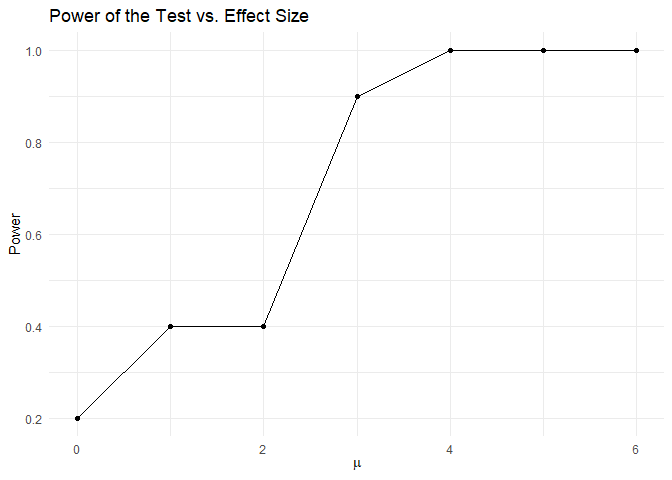
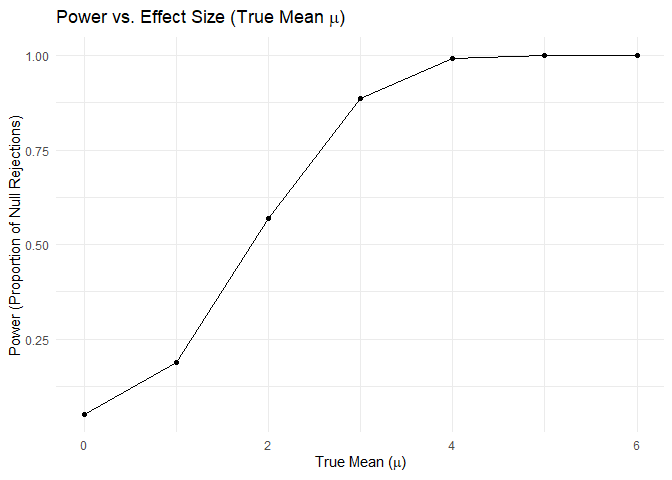
commit q1

diff --git a/p8105_hw5_fl2714.md b/p8105_hw5_fl2714.md
@@ -43,31 +43,94 @@ set.seed(1)
 n <- 30       
 sigma <- 5    
 alpha <- 0.05 
-mu_value <- 0  
+mu_values <- c(0, 1, 2, 3, 4, 5, 6)  
 num_simulations <- 5000
 
+# Function to generate dataset, perform t-test, and extract results using broom::tidy
 sim_mean_sd <- function(n, mu = 0, sigma = 5) {
   x <- rnorm(n, mean = mu, sd = sigma)
-  tibble(
-    mu_hat = mean(x),
-    sigma_hat = sd(x)
-  )
+  t_test <- t.test(x, mu = 0)
+  tidy(t_test) %>%
+    mutate(mu_hat = mean(x))
 }
 
-sim_results <- map_df(1:num_simulations, ~ sim_mean_sd(n, mu = mu_value, sigma = sigma))
+# Run simulations for each mu value
+sim_results <- map_df(mu_values, function(mu_value) {
+  map_df(1:num_simulations, ~ sim_mean_sd(n, mu = mu_value, sigma = sigma)) %>%
+    mutate(mu = mu_value)
+})
 
-head(sim_results)
+# Calculate power for each mu value (proportion of tests where null was rejected)
+power_results <- sim_results %>%
+  group_by(mu) %>%
+  summarise(power = mean(p.value < alpha))
 ```
 
-    ## # A tibble: 6 × 2
-    ##   mu_hat sigma_hat
-    ##    <dbl>     <dbl>
-    ## 1  0.412      4.62
-    ## 2  0.664      3.98
-    ## 3  0.551      4.80
-    ## 4  0.567      4.41
-    ## 5 -1.65       4.61
-    ## 6  1.19       5.28
+``` r
+# Plot 1 with expression for mu symbol
+ggplot(power_results, aes(x = mu, y = power)) +
+  geom_line() +
+  geom_point() +
+  labs(
+    title = expression("Power vs. Effect Size (True Mean " * mu * ")"),
+    x = expression("True Mean (" * mu * ")"),
+    y = "Power (Proportion of Null Rejections)"
+  ) +
+  theme_minimal()
+```
+
+![](p8105_hw5_fl2714_files/figure-gfm/unnamed-chunk-3-1.png)<!-- -->
+
+``` r
+# Calculate the average of mu_hat for each mu value
+avg_mu_hat <- sim_results %>%
+  group_by(mu) %>%
+  summarise(avg_mu_hat = mean(mu_hat))
+
+# Plot 2: Average Estimate of mu_hat vs. True Mean (µ) with expression
+ggplot(avg_mu_hat, aes(x = mu, y = avg_mu_hat)) +
+  geom_line() +
+  geom_point() +
+  labs(
+    title = expression("Average Estimate of " * hat(mu) * " vs. True Mean " * mu),
+    x = expression("True Mean (" * mu * ")"),
+    y = expression("Average Estimate of " * hat(mu))
+  ) +
+  theme_minimal()
+```
+
+![](p8105_hw5_fl2714_files/figure-gfm/unnamed-chunk-4-1.png)<!-- -->
+
+``` r
+# Calculate the average of mu_hat only for tests where null was rejected
+avg_mu_hat_rejected <- sim_results %>%
+  filter(p.value < alpha) %>%
+  group_by(mu) %>%
+  summarise(avg_mu_hat_rejected = mean(mu_hat))
+
+# Average Estimate of µ̂ for Rejected Tests vs. True Mean (µ)
+ggplot(avg_mu_hat, aes(x = mu, y = avg_mu_hat)) +
+  geom_line(color = "blue", linetype = "dashed") +
+  geom_point(color = "blue") +
+  geom_line(data = avg_mu_hat_rejected, aes(x = mu, y = avg_mu_hat_rejected), color = "red") +
+  geom_point(data = avg_mu_hat_rejected, aes(x = mu, y = avg_mu_hat_rejected), color = "red") +
+  labs(title = "Average Estimate of µ̂ vs. True Mean µ (Overall and Rejected Tests)",
+       x = expression("True Mean (" * mu * ")"),
+       y = "Average Estimate of µ̂") +
+  theme_minimal() +
+  scale_color_manual(values = c("Overall" = "blue", "Rejected" = "red"))
+```
+
+    ## Warning: No shared levels found between `names(values)` of the manual scale and the
+    ## data's colour values.
+
+![](p8105_hw5_fl2714_files/figure-gfm/unnamed-chunk-5-1.png)<!-- -->
+
+the sample average of miu across tests where the null is rejected is not
+approximately equal to the true miu due to selection bias. By
+conditioning on rejection of the null, we are choosing samples where the
+observed effect is more extreme, leading to an overestimation of the
+true mean miu in the subset of rejected tests.
 
 ### Question 3
 
@@ -90,6 +153,11 @@ city_summary <- homicide_data %>%
   ) %>%
   filter(total_homicides >= 5)
 ```
+
+The `homicide_data` dataset contains 52179 rows and 13 columns. It
+includes information on victims’ demographics, homicide locations, and
+case status (such as date and disposition), which enable us to
+investigate patterns and trends in homicide cases.
 
 #### 2. Baltimore data
 
@@ -149,4 +217,4 @@ ggplot(city_test_results, aes(x = city_state, y = estimate)) +
   )
 ```
 
-![](p8105_hw5_fl2714_files/figure-gfm/unnamed-chunk-6-1.png)<!-- -->
+![](p8105_hw5_fl2714_files/figure-gfm/unnamed-chunk-9-1.png)<!-- -->
